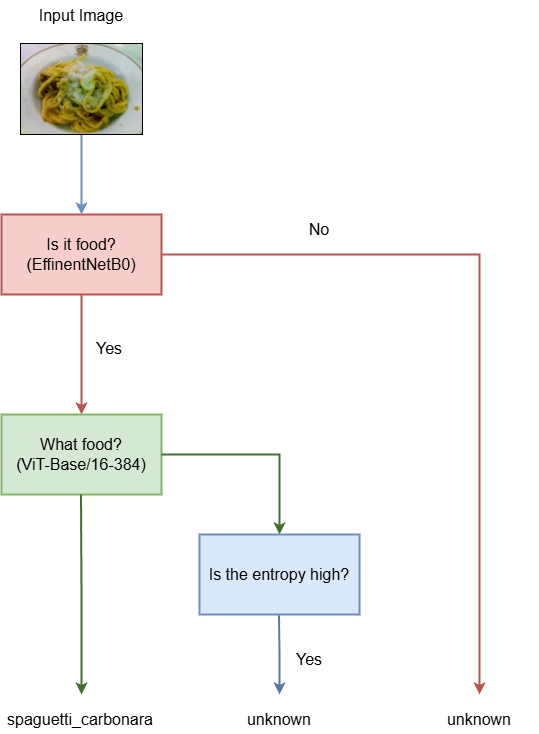
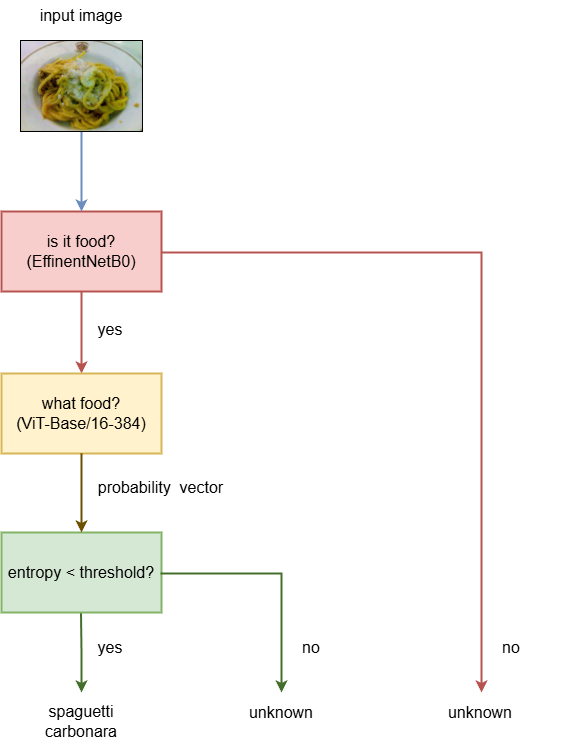
updated block diagram, and added a new scheduler to keep LR constant after a certain number of epochs

Changed region(s): [[0.0, 0.0, 0.9499, 1.0]]

diff --git a/notebooks/modules/scheduler.py b/notebooks/modules/scheduler.py
@@ -71,3 +71,69 @@ class WarmupCosineAnnealingLR(torch.optim.lr_scheduler._LRScheduler):
             lr = [base_lr * (cosine_factor) + self.eta_min for base_lr in self.base_lrs]
 
         return lr
+
+class FixedLRSchedulerWrapper:
+    
+    """
+    FixedLRSchedulerWrapper wraps an existing learning rate scheduler to allow for 
+    a fixed learning rate after a specified epoch.
+
+    Args:
+        scheduler (torch.optim.lr_scheduler): The underlying learning rate scheduler.
+        fixed_lr (float): The learning rate to be fixed after `fixed_epoch`.
+        fixed_epoch (int): The epoch after which the learning rate should be fixed.
+
+    Attributes:
+        scheduler (torch.optim.lr_scheduler): The underlying scheduler used for learning rate adjustment.
+        fixed_lr (float): The fixed learning rate value.
+        fixed_epoch (int): The epoch after which the fixed learning rate is applied.
+        last_epoch (int): Tracks the last epoch processed by the scheduler.
+    """
+
+    def __init__(self, scheduler, fixed_lr, fixed_epoch):
+        """
+        Initializes the custom scheduler with the given scheduler, fixed learning rate,
+        and fixed epoch.
+
+        Args:
+            scheduler (torch.optim.lr_scheduler): The original scheduler (e.g., CosineAnnealingLR).
+            fixed_lr (float): The fixed learning rate after the specified epoch.
+            fixed_epoch (int): The epoch at which to stop using the original scheduler
+                               and switch to the fixed learning rate.
+        """
+        self.scheduler = scheduler  # Store the original scheduler
+        self.fixed_lr = fixed_lr    # Learning rate to apply after the fixed epoch
+        self.fixed_epoch = fixed_epoch  # Epoch at which the switch happens
+        self.last_epoch = 0         # Initialize the epoch counter
+
+    def step(self, epoch=None):
+        """
+        Updates the learning rate based on the current epoch. Uses the original scheduler
+        before `fixed_epoch` and applies a fixed learning rate afterward.
+
+        Args:
+            epoch (int, optional): The current epoch. If provided, updates the internal epoch counter.
+        """
+        if epoch is not None:
+            self.last_epoch = epoch  # Update the current epoch if provided
+        
+        if self.last_epoch < self.fixed_epoch:
+            # Delegate to the original scheduler if before the fixed epoch
+            self.scheduler.step(epoch)
+        else:
+            # Set the learning rate to the fixed value for all parameter groups
+            for param_group in self.scheduler.optimizer.param_groups:
+                param_group['lr'] = self.fixed_lr
+
+    def get_last_lr(self):
+        """
+        Retrieves the current learning rate. Uses the original scheduler's learning rate
+        before `fixed_epoch` and returns the fixed learning rate afterward.
+
+        Returns:
+            list: The current learning rate(s) as a list (one per parameter group).
+        """
+        if self.last_epoch < self.fixed_epoch:
+            return self.scheduler.get_last_lr()  # Delegate to the original scheduler
+        else:
+            return [self.fixed_lr]  # Return the fixed learning rate
